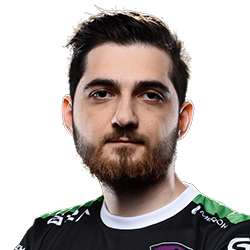
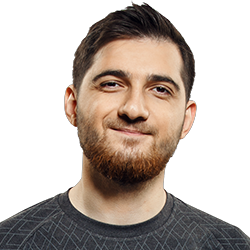
Final 30 TI9 player images

diff --git a/src/components/Team/proPlayerImages.js b/src/components/Team/proPlayerImages.js
@@ -82,6 +82,8 @@ export default ({
   145550466: true,
   148215639: true,
   149486894: true,
+  152545459: true,
+  152962063: true,
   153836240: true,
   154715080: true,
   155332459: true,
@@ -137,6 +139,7 @@ export default ({
   3916428: true,
   3940262: true,
   397462905: true,
+  401792574: true,
   40547474: true,
   41231571: true,
   412753955: true,
@@ -148,6 +151,7 @@ export default ({
   49317728: true,
   50828662: true,
   5150808: true,
+  54580962: true,
   6922000: true,
   70388657: true,
   72312627: true,
